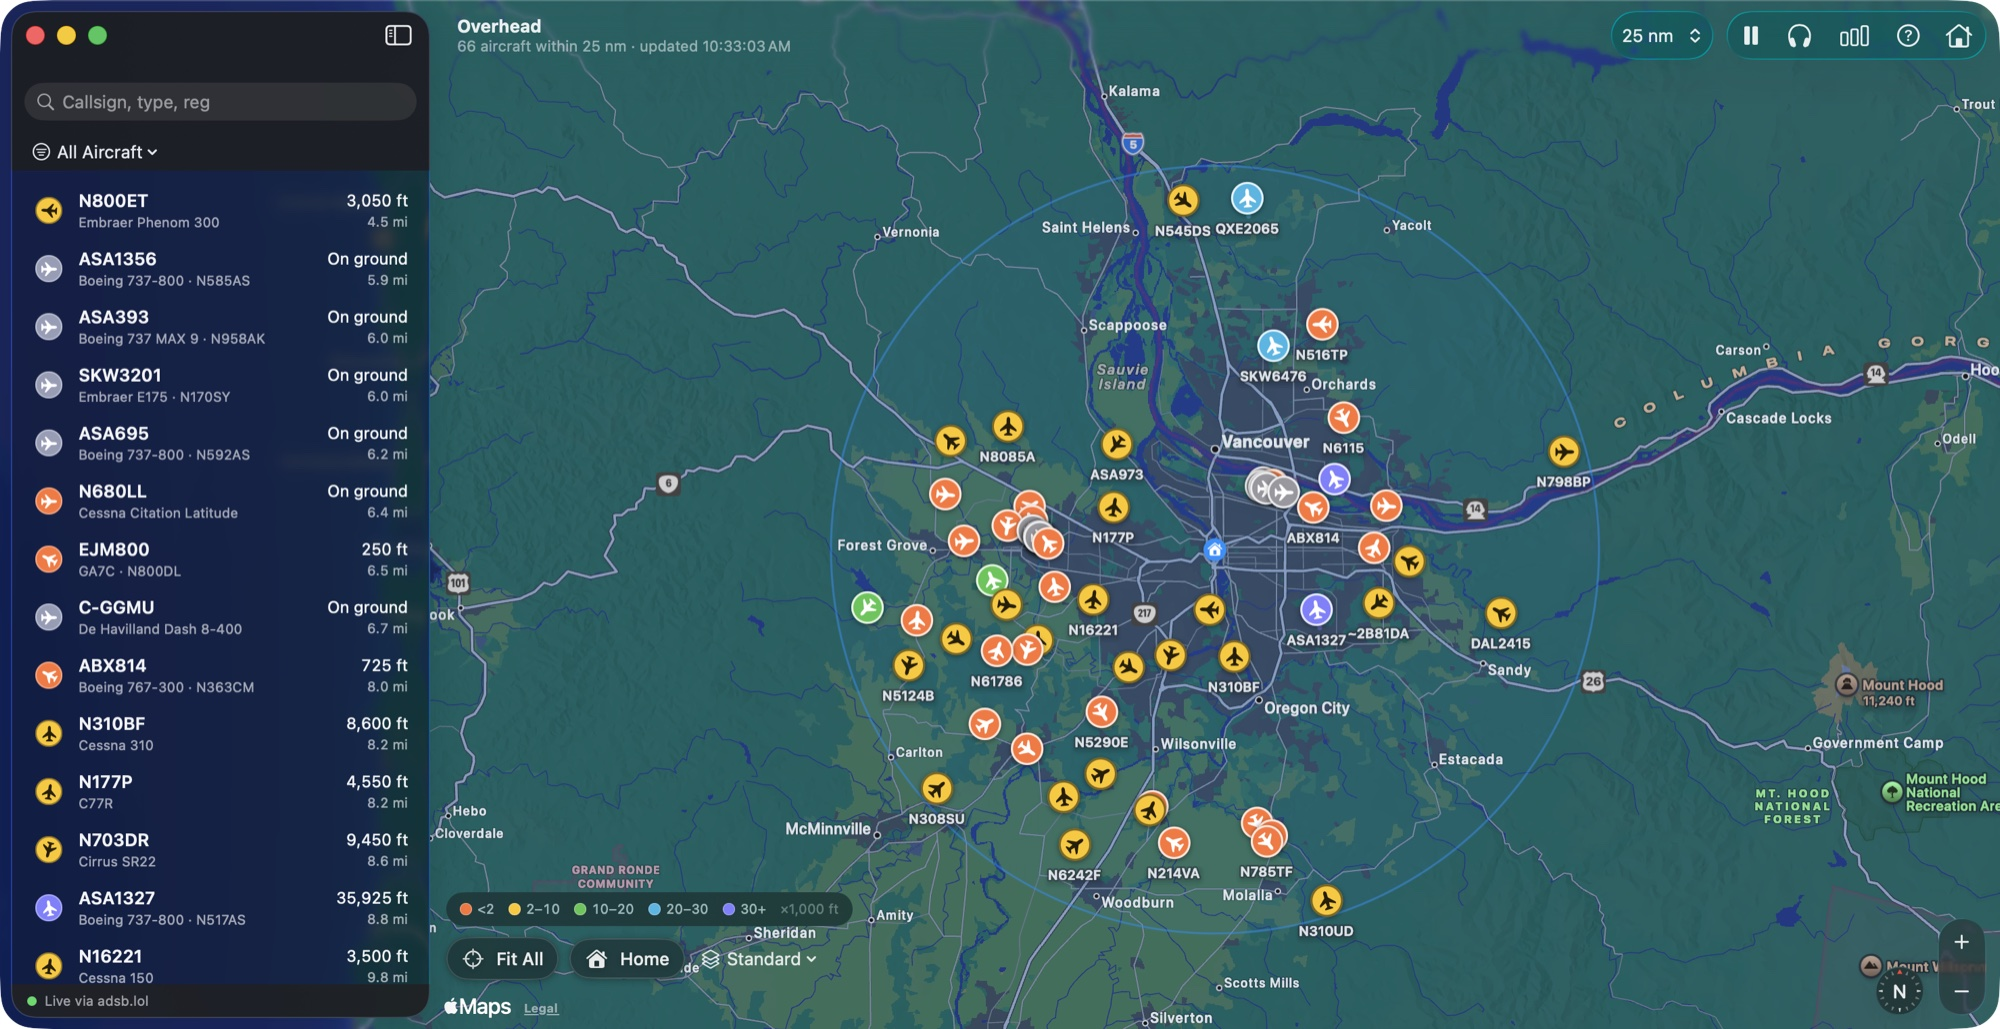
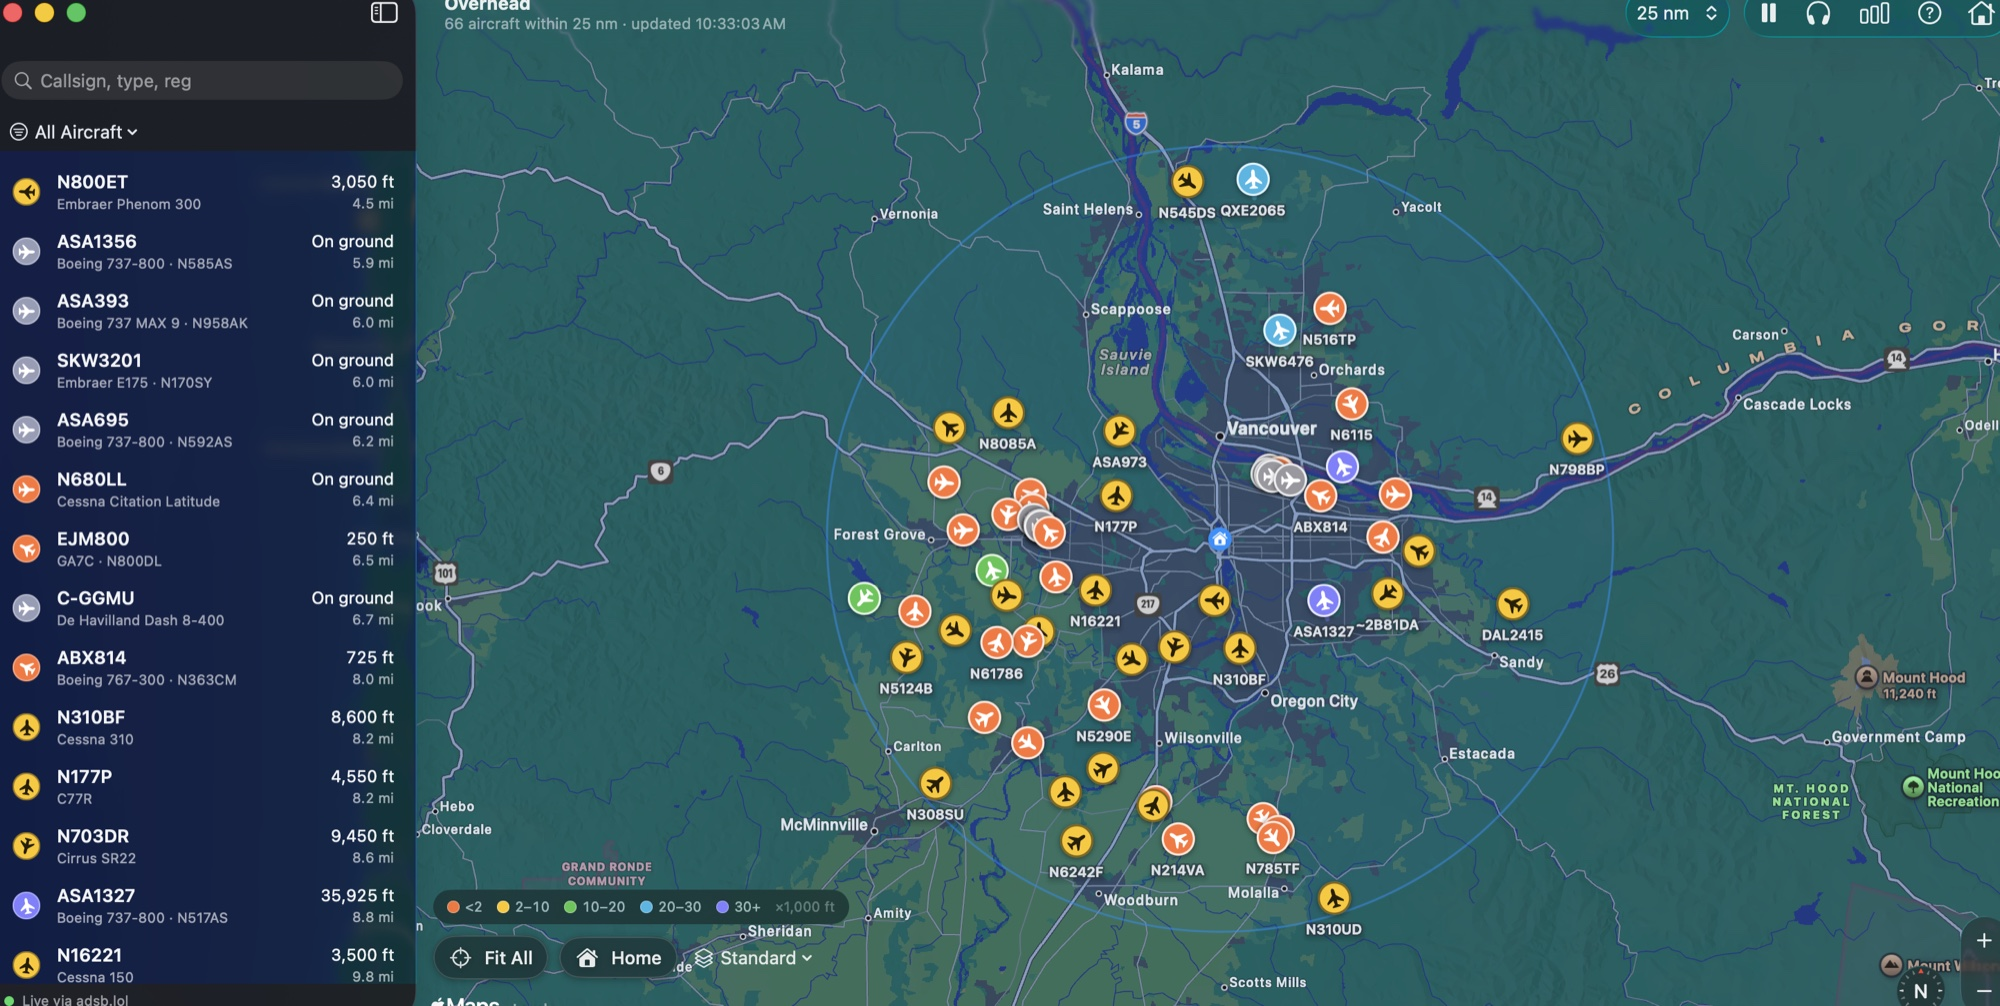
Update website

diff --git a/index.html b/index.html
@@ -172,7 +172,7 @@
   </div>
 
   <figure class="shot">
-    <img src="app-shot.jpg" width="2000" height="1029"
+    <img src="app-shot.jpg" width="2000" height="1006"
          alt="The Overhead app showing 66 aircraft within 25 nautical miles: a sidebar listing each flight with its type, altitude and distance, beside a live map where aircraft are colored by altitude around a range ring centered on home.">
   </figure>
 
